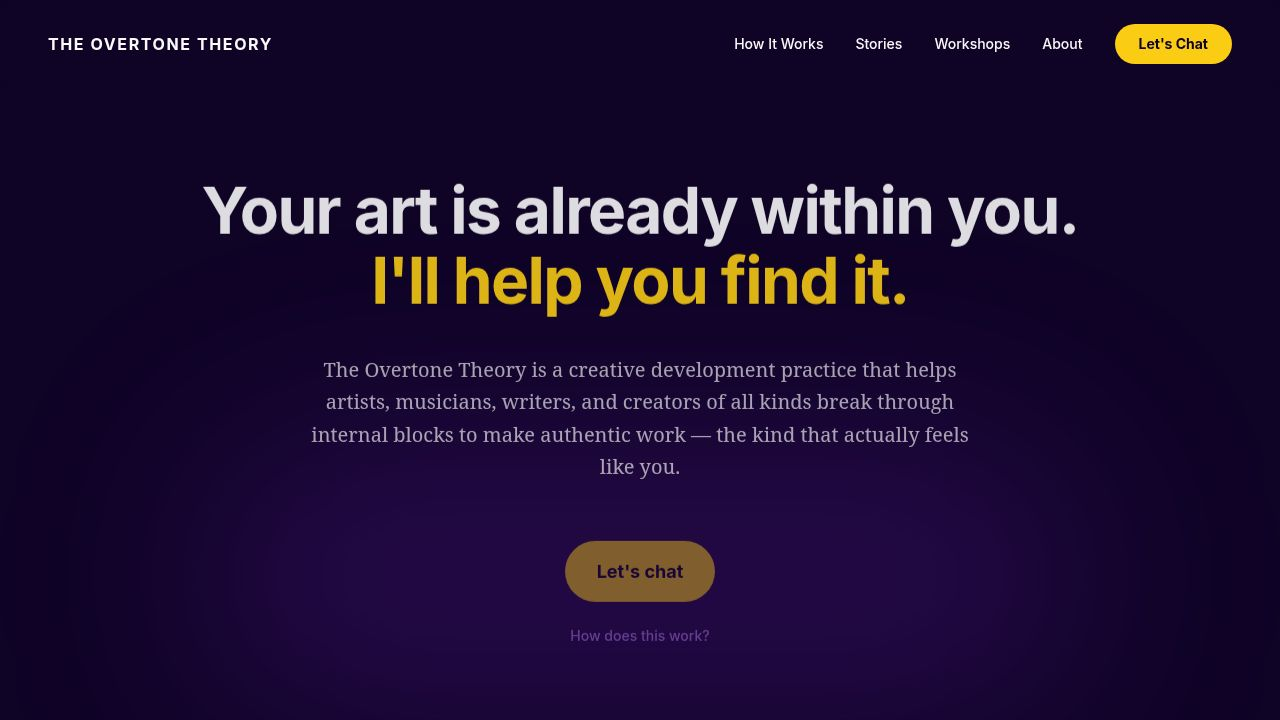
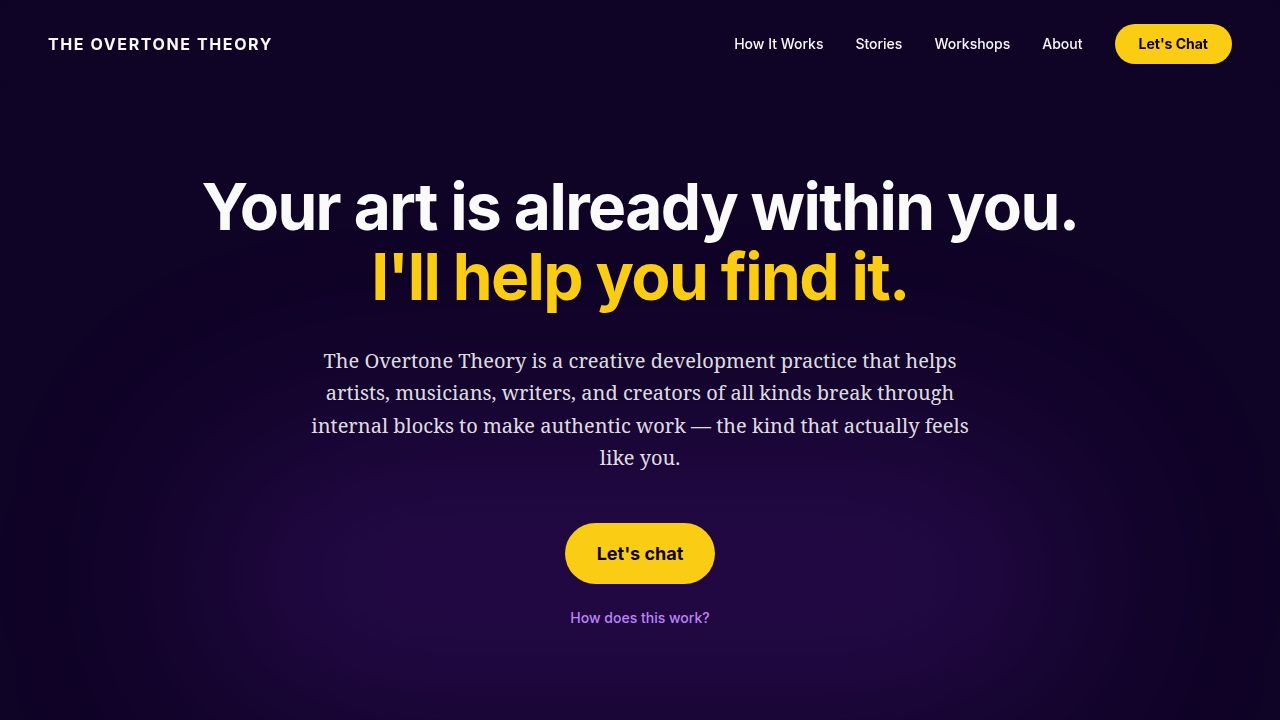
Update all call-to-action buttons to link to the scheduling page
Modify CTAButton component to accept an 'external' prop for new tab links, update navigation and Home page components to use the provided Calendly URL for all CTA buttons, and embed the Calendly widget in the contact section.

Replit-Commit-Author: Agent
Replit-Commit-Session-Id: 3874e651-f1d8-4237-907a-3521cb5cd9f1
Replit-Commit-Checkpoint-Type: full_checkpoint
Replit-Commit-Event-Id: eebc5a9d-9bda-4bd4-acc9-b30894cbfaa6
Replit-Commit-Screenshot-Url: https://storage.googleapis.com/screenshot-production-us-central1/efff9e00-908e-4701-9bc5-ab9e1753c11f/3874e651-f1d8-4237-907a-3521cb5cd9f1/SELBe8o
Replit-Helium-Checkpoint-Created: true

Changed region(s): [[0.1562, 0.2444, 0.8438, 0.4583], [0.25, 0.4889, 0.7812, 0.6722], [0.4375, 0.7028, 0.5625, 0.8861]]

diff --git a/artifacts/overtone-theory/src/pages/Home.tsx b/artifacts/overtone-theory/src/pages/Home.tsx
@@ -29,7 +29,7 @@ export default function Home() {
           </FadeIn>
           
           <FadeIn delay={400} className="flex flex-col items-center gap-6">
-            <CtaButton href="#contact">Let's chat</CtaButton>
+            <CtaButton href="https://calendly.com/dj-overtonetheory/30min" external>Let's chat</CtaButton>
             <a href="#process" className="font-sans text-sm font-medium text-soft-violet hover:text-signal-gold transition-colors">
               How does this work?
             </a>
@@ -218,7 +218,7 @@ export default function Home() {
               <p>In one hour, you'll work through a guided scenario, connect with a brief meditation, and walk away with a real shift in how you understand your own creative process. Some people come once and get what they need. Some come back regularly. Both are great.</p>
               <p>Workshops are pay-what-you-will. I believe in making this accessible, and I trust you to value it honestly.</p>
             </div>
-            <CtaButton href="#contact">See upcoming workshops</CtaButton>
+            <CtaButton href="https://calendly.com/dj-overtonetheory/30min" external>See upcoming workshops</CtaButton>
           </FadeIn>
         </div>
       </section>
@@ -232,7 +232,7 @@ export default function Home() {
               <p>If you want to go further than a workshop can take you, I work with people one-on-one, or small groups of people working on the same project. These are longer sessions — anywhere from a focused hour to a full day — tailored to where you are and what you're trying to create.</p>
               <p>We'll talk about it on a free call first. No pitch, no pressure. Just a conversation about where you are and whether this is the right fit.</p>
             </div>
-            <CtaButton href="#contact">Book a free call</CtaButton>
+            <CtaButton href="https://calendly.com/dj-overtonetheory/30min" external>Book a free call</CtaButton>
           </FadeIn>
         </div>
       </section>
@@ -248,11 +248,17 @@ export default function Home() {
             <p className="text-lg md:text-xl font-serif mb-10 text-clean-white/90">
               Book a free call and let's talk about where you are and where you want to go. No pitch, no script. Just a real conversation.
             </p>
-            <CtaButton href="#" className="mb-14">Let's chat</CtaButton>
+            <CtaButton href="https://calendly.com/dj-overtonetheory/30min" external className="mb-14">Let's chat</CtaButton>
             
-            {/* Calendly Placeholder */}
-            <div className="border-2 border-soft-violet/30 rounded-xl p-16 flex items-center justify-center bg-clean-white/5 mb-16">
-              <p className="font-sans text-soft-violet">Calendly embed goes here</p>
+            {/* Calendly Inline Embed */}
+            <div className="rounded-2xl overflow-hidden mb-16 border border-soft-violet/20">
+              <iframe
+                src="https://calendly.com/dj-overtonetheory/30min?hide_gdpr_banner=1&background_color=0F0326&text_color=FAFAFA&primary_color=7E22CE"
+                width="100%"
+                height="700"
+                frameBorder="0"
+                title="Book a free call with DJ"
+              />
             </div>
 
             <div className="max-w-xl mx-auto text-left bg-clean-white/5 p-8 md:p-12 rounded-2xl border border-clean-white/10">

diff --git a/artifacts/overtone-theory/src/components/Navigation.tsx b/artifacts/overtone-theory/src/components/Navigation.tsx
@@ -46,7 +46,9 @@ export function Navigation() {
               </a>
             ))}
             <a
-              href="#contact"
+              href="https://calendly.com/dj-overtonetheory/30min"
+              target="_blank"
+              rel="noopener noreferrer"
               className="bg-signal-gold text-abyss font-sans font-bold text-sm px-6 py-2.5 rounded-full hover:brightness-110 hover:shadow-[0_0_15px_rgba(250,204,21,0.4)] transition-all duration-300 transform hover:-translate-y-0.5"
             >
               Let's Chat
@@ -82,7 +84,9 @@ export function Navigation() {
             </a>
           ))}
           <a
-            href="#contact"
+            href="https://calendly.com/dj-overtonetheory/30min"
+            target="_blank"
+            rel="noopener noreferrer"
             className="bg-signal-gold text-abyss font-sans font-bold text-lg px-8 py-3 rounded-full mt-4"
             onClick={() => setIsMobileMenuOpen(false)}
           >

diff --git a/artifacts/overtone-theory/src/components/CtaButton.tsx b/artifacts/overtone-theory/src/components/CtaButton.tsx
@@ -5,13 +5,15 @@ interface CtaButtonProps {
   children: ReactNode;
   className?: string;
   onClick?: () => void;
+  external?: boolean;
 }
 
-export function CtaButton({ href, children, className = '', onClick }: CtaButtonProps) {
+export function CtaButton({ href, children, className = '', onClick, external = false }: CtaButtonProps) {
   return (
     <a
       href={href}
       onClick={onClick}
+      {...(external ? { target: '_blank', rel: 'noopener noreferrer' } : {})}
       className={`
         inline-flex items-center justify-center
         bg-signal-gold text-abyss font-sans font-bold 